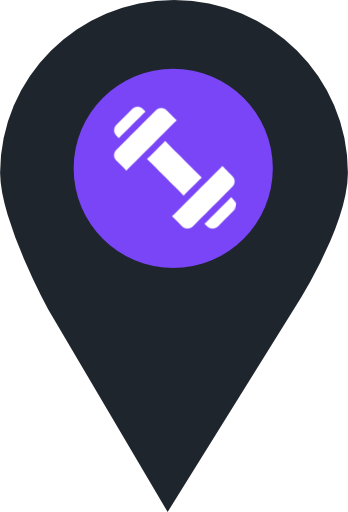
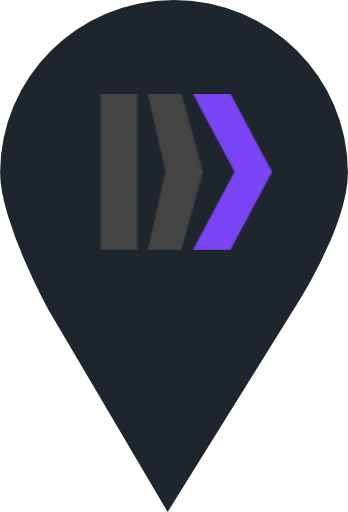
redesign

Changed region(s): [[0.2011, 0.125, 0.8046, 0.5312]]

diff --git a/src/app/_components/organisms/Map.tsx b/src/app/_components/organisms/Map.tsx
@@ -242,7 +242,7 @@ const handleSalleClick = (salle: Salle) => {
           title: salle.name,
           icon: {
             url: "/Localisation.png",
-            size: new google.maps.Size(40, 40),
+            size: new google.maps.Size(60, 40),
             scaledSize: new google.maps.Size(20, 20),
           },
         });
@@ -298,30 +298,31 @@ const handleSalleClick = (salle: Salle) => {
 
   
   const ReservationPopup = () => (
-    <div className="fixed inset-0 z-50 flex items-center justify-center bg-black bg-opacity-50">
-      <div className="bg-white p-5 rounded shadow-lg">
-        <h2>Réservation pour {selectedMarker?.name}</h2>
+    <div className="fixed inset-0 z-50 flex items-center justify-center bg-black bg-opacity-50 ">
+      <div className="bg-white p-5 rounded shadow-lg font-black ">
+        <h2 className="text-[#7945f7] uppercase pb-2">Réservation pour {selectedMarker?.name}</h2>
         <CreateReservation salleId="65a7972b05b02b0409551ffb" />
 
-        <button onClick={() => setShowPopup(false)} className="mt-4 bg-red-500 hover:bg-red-700 text-black font-bold py-2 px-4 rounded">
+        <button onClick={() => setShowPopup(false)} 
+            className="btn bg-[#444] text-white py-2 px-5 mt-3 ml-20 rounded-md transition-transform duration-200 ease-in-out hover:bg-second-color active:scale-95"
+          >
           Fermer
         </button>
       </div>
     </div>
   );
   return (
-      <div className="flex flex-col px-4 md:flex-row">
-        <div className="relative max-h-screen w-full overflow-y-auto p-4 md:w-1/4">
-          <h2 className="mb-2 text-lg font-semibold">Nos salles : </h2>
+      <div className="flex flex-col px-4 md:flex-row ">
+        <div className="">
           <input
             type="text"
             placeholder="Recherchez une salle"
-            className="border-gray-300 block w-full rounded-md border p-2"
+            className="border-[#eeeff0] block w-full rounded-md border p-3"
             value={searchTerm}
             onChange={(e) => setSearchTerm(e.target.value)}
             aria-label="Recherchez une salle"
           />
-          <div className={`absolute z-10 mt-1 bg-white w-full rounded-md shadow-lg ${searchTerm ? 'block' : 'hidden'}`}>
+          <div className={`absolute z-10 mt-1 bg-white w-[20%] rounded-md shadow-lg ${searchTerm ? 'block' : 'hidden'}`}>
             {searchTerm && filteredSalles.map((salle) => (
               <div
                 key={salle.id}
@@ -332,13 +333,13 @@ const handleSalleClick = (salle: Salle) => {
               </div>
             ))}
           </div>
-          <div className={`mt-${searchTerm ? filteredSalles.length * 8 : 0} p-2`}>
+          <div className={`mt-${searchTerm ? filteredSalles.length * 8 : 0}`}>
             {selectedMarker && (
       
-          <div className="mt-4">
-            <h3 className="text-lg font-semibold">{selectedMarker.name}</h3>
-            <div className="flex items-center">
-            <svg xmlns="http://www.w3.org/2000/svg" fill="none" viewBox="0 0 24 24" strokeWidth={1.5} stroke="currentColor" className="w-6 h-6">
+          <div className="mt-4 bg-[#eeeff0] rounded-lg p-7">
+            <h3 className="text-lg font-semibold uppercase text-[#7945f7] font-black pb-2">{selectedMarker.name}</h3>
+            <div className="flex items-center mb-2">
+            <svg xmlns="http://www.w3.org/2000/svg" fill="none" viewBox="0 0 24 24" strokeWidth={2} stroke="currentColor" className=" mr-2 w-6 h-6">
   <path strokeLinecap="round" strokeLinejoin="round" d="M15 10.5a3 3 0 1 1-6 0 3 3 0 0 1 6 0Z" />
   <path strokeLinecap="round" strokeLinejoin="round" d="M19.5 10.5c0 7.142-7.5 11.25-7.5 11.25S4.5 17.642 4.5 10.5a7.5 7.5 0 1 1 15 0Z" />
 </svg>
@@ -347,26 +348,27 @@ const handleSalleClick = (salle: Salle) => {
     </div>
    
             <div className="flex items-center">
-            <svg xmlns="http://www.w3.org/2000/svg" fill="none" viewBox="0 0 24 24" strokeWidth={1.5} stroke="currentColor" className="w-6 h-6">
+            <svg xmlns="http://www.w3.org/2000/svg" fill="none" viewBox="0 0 24 24" strokeWidth={2} stroke="currentColor" className="mr-2 w-6 h-6">
   <path strokeLinecap="round" strokeLinejoin="round" d="M12 6v6h4.5m4.5 0a9 9 0 1 1-18 0 9 9 0 0 1 18 0Z" />
 </svg>
        <span> {selectedMarker.heure_ouverture[0]}-{selectedMarker.heure_fermeture[0]}</span>
     </div>
-    <div className="flex items-center">
-      <svg xmlns="http://www.w3.org/2000/svg" fill="none" viewBox="0 0 24 24" strokeWidth={1.5} stroke="currentColor" className="w-6 h-6 mr-2">
+    <div className="flex items-center mt-2">
+      <svg xmlns="http://www.w3.org/2000/svg" fill="none" viewBox="0 0 24 24" strokeWidth={2} stroke="currentColor" className="w-6 h-6 mr-2">
         <path strokeLinecap="round" strokeLinejoin="round" d="M2.25 6.75c0 8.284 6.716 15 15 15h2.25a2.25 2.25 0 0 0 2.25-2.25v-1.372c0-.516-.351-.966-.852-1.091l-4.423-1.106c-.44-.11-.902.055-1.173.417l-.97 1.293c-.282.376-.769.542-1.21.38a12.035 12.035 0 0 1-7.143-7.143c-.162-.441.004-.928.38-1.21l1.293-.97c.363-.271.527-.734.417-1.173L6.963 3.102a1.125 1.125 0 0 0-1.091-.852H4.5A2.25 2.25 0 0 0 2.25 4.5v2.25Z" />
       </svg>
       {selectedMarker.num_tel}
     </div>
-            <p className="text-gray-500 text-sm">
-              Capacité de : {selectedMarker.capacite}
+            <p className="text-[#444] text-sm mt-3 mb-1">
+              Capacité : {selectedMarker.capacite}
             </p>
-            <p className="text-gray-500 text-sm">
-              {selectedMarker.nbr_coach} coach(s) disponible
+            <p className="text-[#444]  text-sm mb-4">
+              Coach(s) disponible : {selectedMarker.nbr_coach} 
             </p>
           <button
             onClick={handleReservationClick}
-            className="mt-4 py-2 px-4"
+            className="btn bg-[#7945f7] text-white py-2 px-5 rounded-md transition-transform duration-200 ease-in-out hover:bg-second-color active:scale-95"
+          
           >
             Réserver un créneau
           </button>
@@ -391,5 +393,5 @@ export default function Map(props : {salles: RouterOutputs["halls"]["getAll"]}) 
 
 const render = (status: Status): ReactElement => {
   if (status === Status.FAILURE) return <span>nul</span>;
-  return <span>load</span>;
+  return <span></span>;
 };

diff --git a/src/app/_components/api/create-reservation.tsx b/src/app/_components/api/create-reservation.tsx
@@ -23,21 +23,21 @@ export function CreateReservation(props: { salleId: string }) {
         e.preventDefault();
         createReservation.mutate({ salleId, datetime });
       }}
-      className="flex flex-col gap-2 bg-secondary p-4 rounded-xl"
+      className="flex flex-col gap-2 bg-[#eeeff0] p-4 rounded-xl"
     >
         <label className="font-semibold">Date et heure</label>
       <input
         type="datetime-local"
         value={datetime.toISOString().slice(0, 16)}
         onChange={(e) => setDatetime(new Date(e.target.value))}
-        className="bg-surface-variant w-full rounded-full px-4 py-2"
+        className="bg-[#cecdcd] w-full rounded-full px-4 py-2"
       />
       <button
         type="submit"
-        className="rounded-full bg-white/10 px-10 py-3 font-semibold transition hover:bg-white/20"
+        className="btn bg-[#7945f7] text-white py-2 px-5 mt-3 rounded-md transition-transform duration-200 ease-in-out hover:bg-second-color active:scale-95"
         disabled={createReservation.isLoading}
       >
-        {createReservation.isLoading ? "Submitting..." : "Submit"}
+        {createReservation.isLoading ? "Envoie en cours..." : "Envoyer"}
       </button>
       <span className=" text-error">{createReservation.isError ? createReservation.error.message : null}</span>
     </form>

diff --git a/src/app/carte/page.tsx b/src/app/carte/page.tsx
@@ -3,7 +3,9 @@ import React, { useState } from 'react';
 import '~/styles/header.css';
 import Header from '../_components/organisms/Header';
 import Map from '../_components/organisms/Map';
+import Footer from '../_components/organisms/Footer';
 import { api } from '~/trpc/server';
+import '~/styles/carte.css'; // Import your CSS file
 
 // Fonction principale de la page d'accueil
 export default async function Home() {
@@ -12,21 +14,17 @@ export default async function Home() {
 
   return (
     <>
-      {/* Inclusion du composant Header */}
       <Header />
-
-      {/* Contenu principal de la page */}
       <div className="h-screen">
-        {/* En-tête */}
-        <header className="ml-10 mt-5 md:mt-20">
-          <h1 className="text-3xl md:text-5xl font-bold">Où nous trouver !</h1>
-        </header>
-
-        {/* Contenu principal (la carte) */}
-        <main>
+        
+    <div className="image-container">
+      <div className="overlay-text">Nos salles de sport</div>
+    </div>
+        <main className=' m-20 mb-0'>
           <Map salles={salles} />
         </main>
-      </div>
+      </div>  
+      <Footer />
     </>
   );
 }

diff --git a/src/styles/carte.css b/src/styles/carte.css
@@ -1,0 +1,25 @@
+main{
+    position: relative;
+}
+/* ImageComponent.css */
+
+.image-container {
+    position: relative;
+    height: 25vh; /* Ajustez la hauteur selon vos besoins */
+    background: url('/assets/images/fond2.png') no-repeat center right;
+    background-size: cover;
+  }
+  
+  .overlay-text {
+    position: absolute;
+    top: 67%;
+    left: 15%;
+    text-transform: uppercase;
+    font-weight: bold;
+    transform: translate(-50%, -50%);
+    color: #fff; /* Couleur du texte */
+    font-size: 2em; /* Taille du texte */
+    text-align: center;
+    width: 80%; /* Ajustez la largeur selon vos besoins */
+  }
+  

diff --git a/src/app/_components/organisms/Footer.tsx b/src/app/_components/organisms/Footer.tsx
@@ -8,7 +8,7 @@ const Footer = () => {
      <link rel="stylesheet" href="https://cdn.jsdelivr.net/npm/boxicons@latest/css/boxicons.min.css" />
       {/* CopyRight */}
       <button id="qrCodeContainer">
-        <i id="qrCodeIcon" className=' bx qr-scan'></i>
+        <i id="qrCodeIcon" className='bx bx-qr-scan'></i>
         </button>
       <div className="copyright">
         <p>&#169; SUMMER FIT 2024, Tout droit réservés</p>

diff --git a/src/styles/header.css b/src/styles/header.css
@@ -52,7 +52,7 @@ header {
     width: 100%;
     top: 0;
     right: 0;
-    z-index: 1000;
+    z-index: 10;
     display: flex;
     align-items: center;
     justify-content: space-between;
